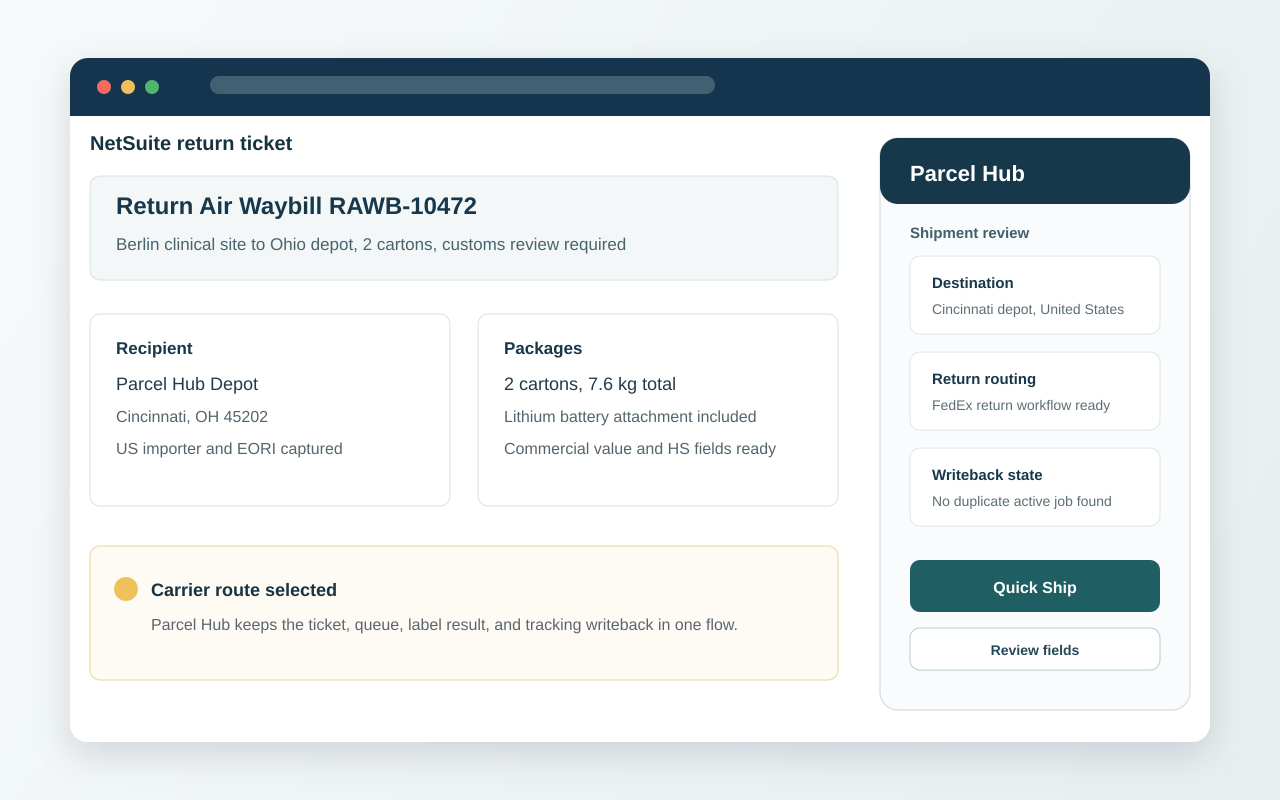
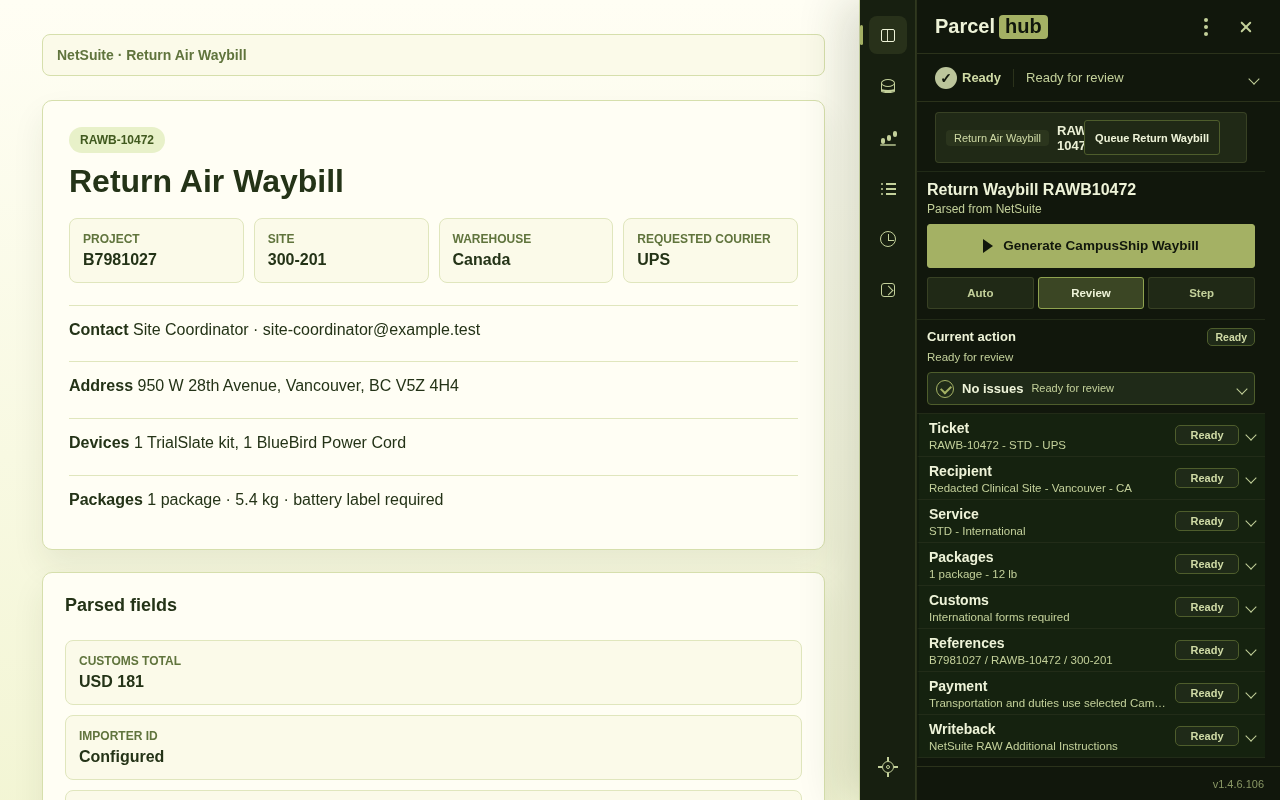
Replace listing screenshots with actual Parcel Hub UI

diff --git a/index.html b/index.html
@@ -22,7 +22,7 @@
 
   <main>
     <section class="hero">
-      <img src="./assets/listing-screenshot-1.svg" alt="" class="hero-bg">
+      <img src="./assets/listing-screenshot-1.png" alt="" class="hero-bg">
       <div class="hero-copy">
         <h1>Parcel Hub</h1>
         <p>Carrier-ready shipment, return waybill, and email parsing workflows for authorized internal shipping teams.</p>
@@ -51,8 +51,8 @@
     </section>
 
     <section class="showcase" aria-label="Parcel Hub screenshots">
-      <img src="./assets/listing-screenshot-2.svg" alt="Parcel Hub parsing a shipping request email into structured shipment data.">
-      <img src="./assets/listing-screenshot-3.svg" alt="Parcel Hub return worklist showing carrier routing and writeback state.">
+      <img src="./assets/listing-screenshot-2.png" alt="Parcel Hub parsing a shipping request email into structured shipment data.">
+      <img src="./assets/listing-screenshot-3.png" alt="Parcel Hub return worklist showing carrier routing and writeback state.">
     </section>
 
     <section class="section compact">
